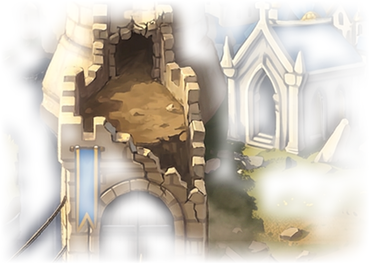
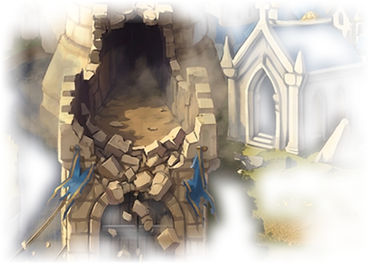
Siege smudge gone, deeper breaches, readable melee clusters: the tower archer is a cropped picture (the outline shader no longer inks its hidden legs below the parapet), a tower's crew vanishes with its tower and moves up into the tower window when the gatehouse breach tears out its battlements; cat

diff --git a/tools/art/siege_wall_paint.py b/tools/art/siege_wall_paint.py
@@ -111,14 +111,18 @@ RUIN_PROMPT = ("This is a castle siege battlefield from a fantasy strategy game.
                "no text.")
 
 
-_GAP = ("the stretch of curtain wall: knock a wide OPEN GAP right through it, the wall walk and its battlements "
-        "completely gone in the middle, so the bare dirt ground of the courtyard behind the wall shows clearly "
-        "THROUGH the gap; only the jagged broken ends of the wall stand on either side; a few fallen blocks lie low "
-        "and scattered on the ground in the gap and in front of it toward the moat, no tall heap")
+_GAP = ("the stretch of curtain wall that runs straight up the CENTRE of the picture, between the gatehouse at the "
+        "bottom and the round tower at the top (and nothing else): knock a wide, deep OPEN BREACH right through it, the wall walk and its "
+        "battlements completely gone in the middle and the wall cut down nearly to the ground, the courtyard behind "
+        "showing THROUGH the gap; jagged, stepped broken ends of the wall stand on either side, their exposed inner "
+        "faces in DEEP DARK SHADOW so the thickness of the wall reads; a low sloping cone of broken blocks and rubble "
+        "spills out through the gap toward the moat, darker in the crevices; dust")
 SEG_WHAT = ["the round corner tower at the top", _GAP,
             "the top of the gatehouse: blow its whole crenellated top and the upper part of its front wall away, "
-            "leaving a big ragged open hole down into the gatehouse through which the dirt ground of the courtyard "
-            "behind is clearly visible; broken blocks fallen onto the bridge and into the moat",
+            "leaving a big ragged open hole down into the gatehouse, its broken inner walls in DEEP DARK SHADOW, through "
+            "which the dirt ground of the courtyard behind is visible; a cone of broken blocks and rubble spills out of "
+            "the hole over the gate arch, burying the top of the gate; broken blocks fallen onto the bridge and into "
+            "the moat",
             "the gatehouse's gate: smash the gate itself open, the heavy doors torn off their hinges and lying broken "
             "and splintered on the drawbridge, the archway now an open dark passage with the courtyard ground "
             "visible through it, the gatehouse's battlements cracked with a few merlons knocked off; the gatehouse "
